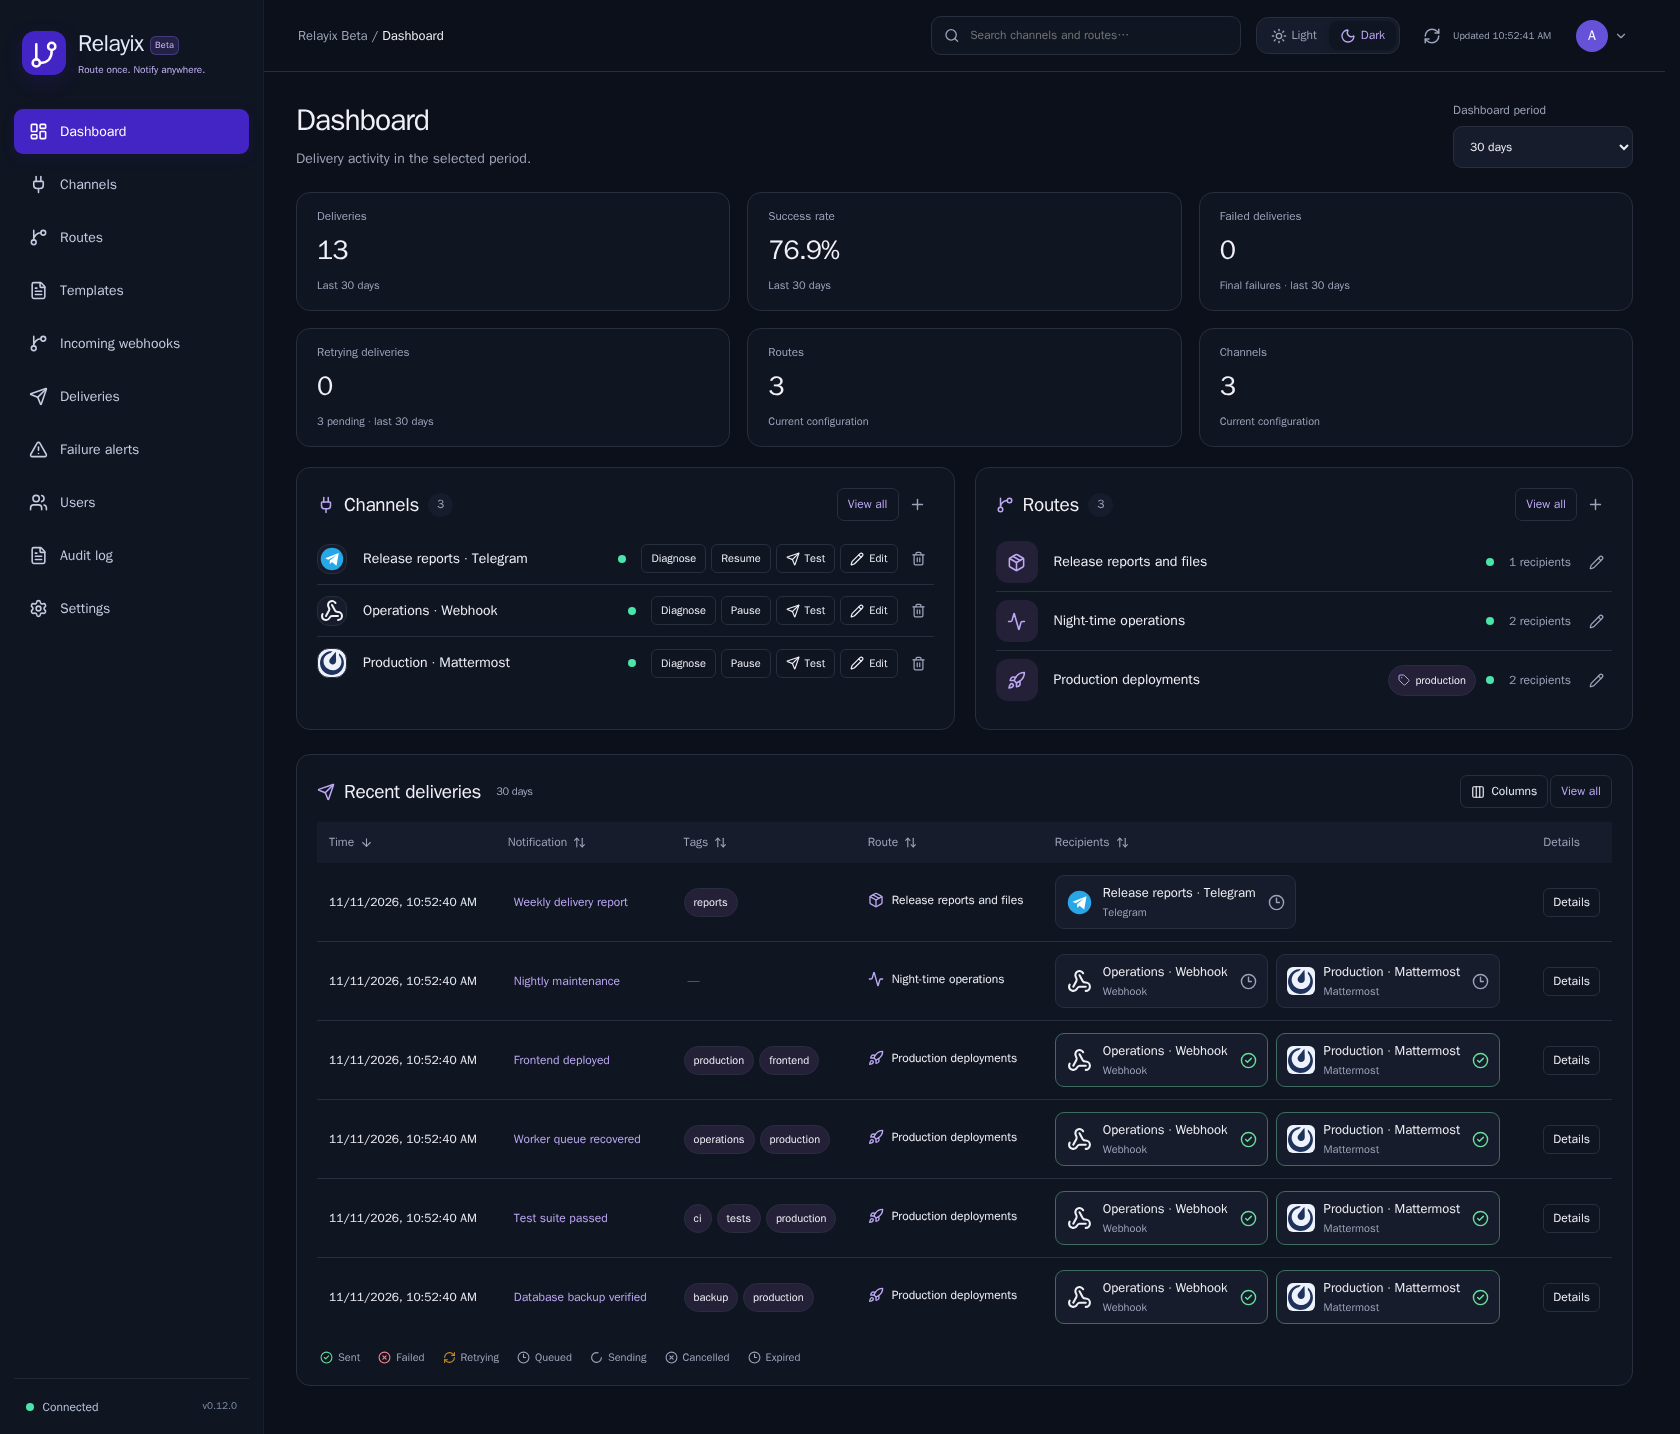
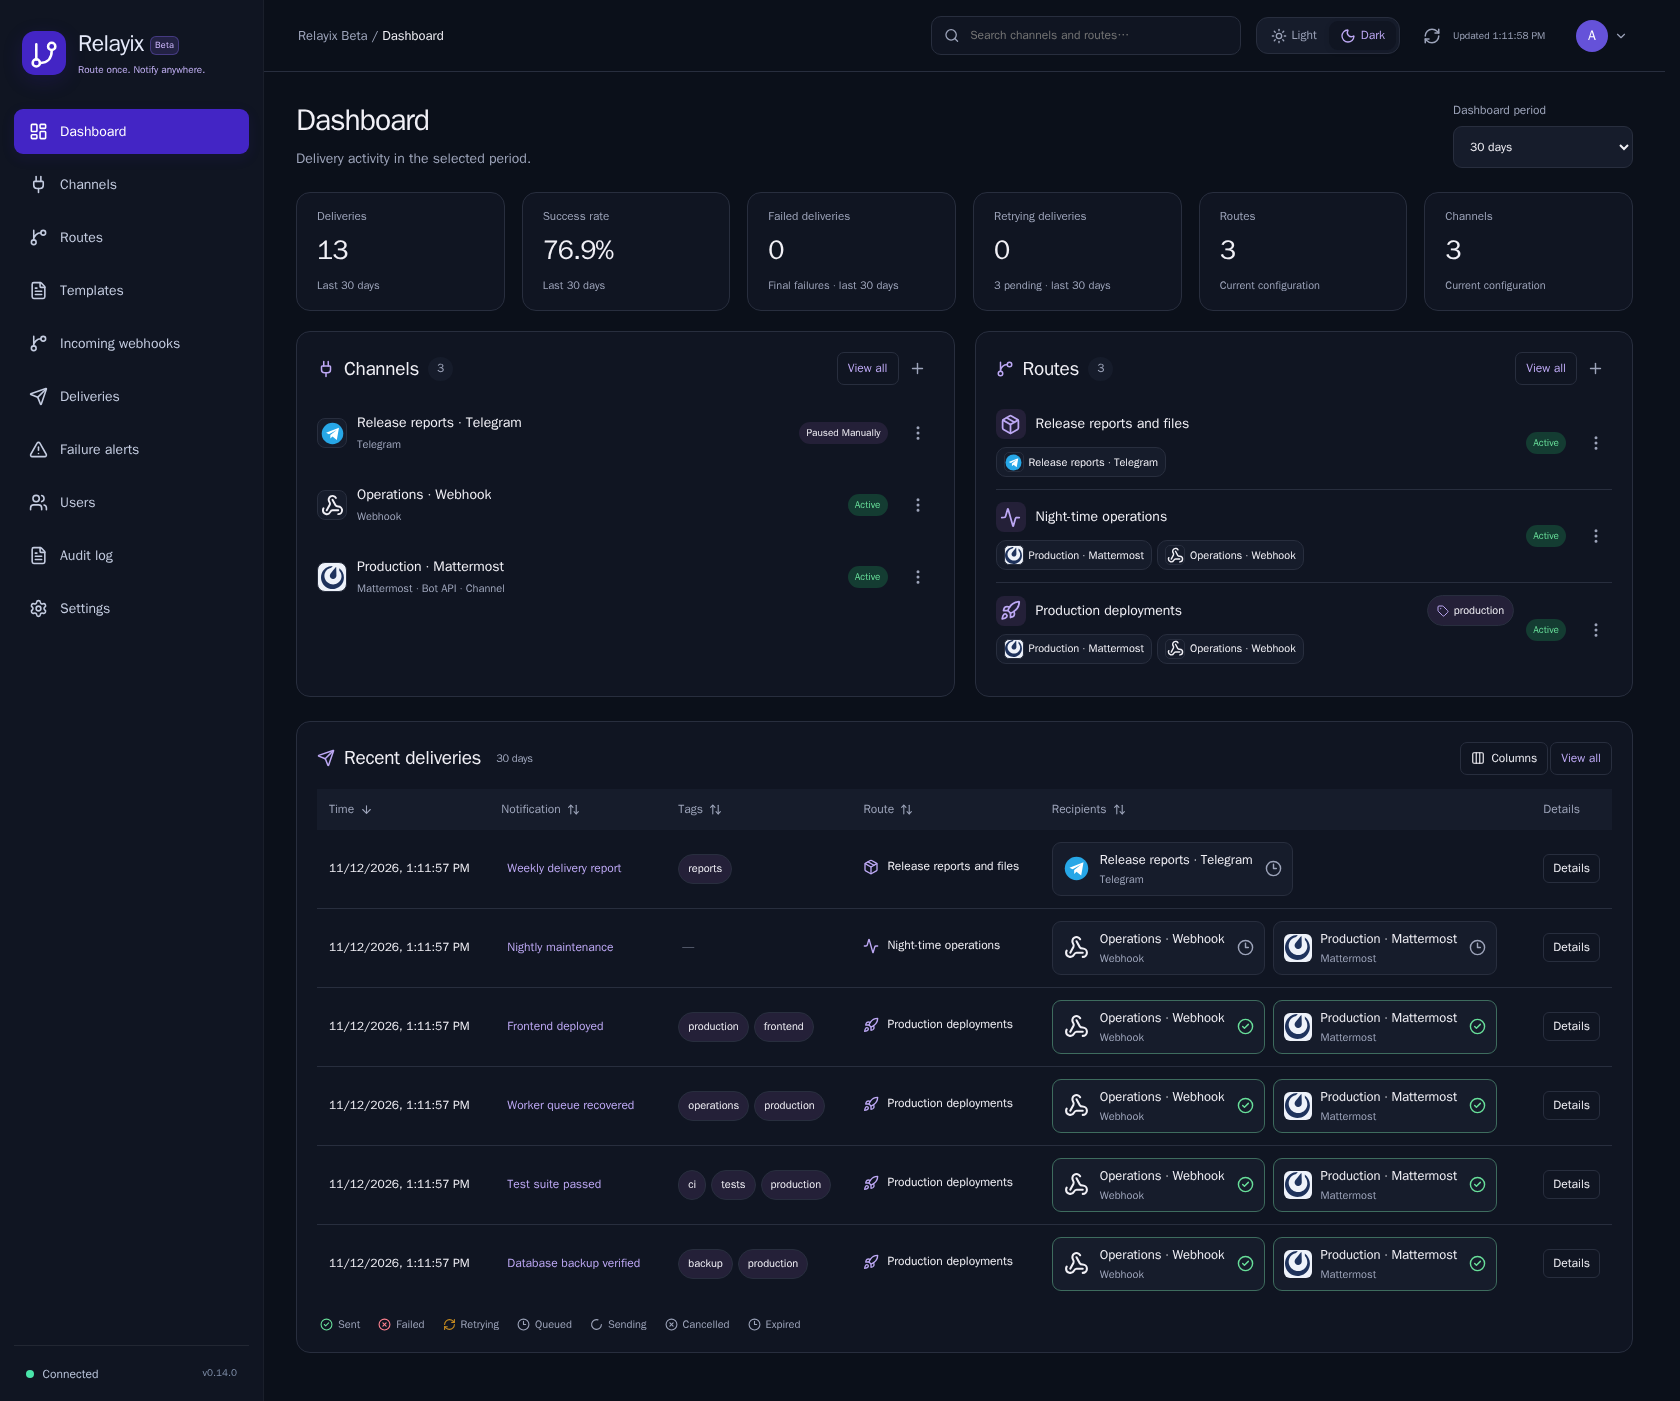
Refresh README with verified 0.14.0 interface screenshots

diff --git a/docs/screenshots/README.md b/docs/screenshots/README.md
@@ -1,9 +1,9 @@
 # Interface screenshots
 
-These PNGs were captured from the verified Relayix **0.12.0 Beta** candidate, commit [`6ba970ca7cc8aed5fd953e53c38356ab6582dfdd`](https://github.com/opsforge89/Relayix/commit/6ba970ca7cc8aed5fd953e53c38356ab6582dfdd), during [the complete candidate verification](https://github.com/opsforge89/Relayix/actions/runs/42980899227) on 2026-11-11.
+These eight PNGs were captured from the verified Relayix **0.14.0 Beta** candidate, commit [`563af308deb057fb6486d9439004b24c40e21491`](https://github.com/opsforge89/Relayix/commit/563af308deb057fb6486d9439004b24c40e21491), during [the complete candidate verification](https://github.com/opsforge89/Relayix/actions/runs/43196085278) on 2026-11-12.
 
-`tests/readme_capture.py` creates an isolated temporary deployment, seeds fictional destinations, routes, notifications and an account, then captures the actual Chromium interface. It runs only in GitHub Actions as part of the single pre-publication verification pipeline. The browser viewport is 1680 × 1100 CSS pixels; full-page screenshots can be taller. The dashboard uses the dark theme; other views use the light theme.
+`tests/readme_capture.py` creates an isolated temporary deployment, seeds fictional destinations, routes, notifications and an account, then captures the actual Chromium interface. It runs only in GitHub Actions as part of the single pre-publication verification pipeline. The browser viewport is 1680 × 1100 CSS pixels; full-page screenshots can be taller. The dashboard and resource overview drawers use the dark theme; other views use the light theme.
 
-The five images cover the dashboard, channels/integrations, template editor with rendered preview, route TTL/quiet hours and administrator audit. They were visually reviewed and copied byte-for-byte from the `verification-artifacts` archive. Credentials, route keys and authenticator secrets are not displayed. No image editing or synthetic UI rendering was used.
+The eight images cover the compact dashboard, channels/integrations, compact routes, channel and route overview drawers, the template editor with rendered preview, route Settings with TTL/quiet hours and administrator audit. They were visually reviewed and copied byte-for-byte from the `verification-artifacts` archive. Credentials, route keys and authenticator secrets are not displayed. No image editing or synthetic UI rendering was used.
 
 To refresh them, take the matching `readme-*.png` files from a successful candidate verification artifact, review the images, replace these `relayix-*.png` files and update the README captions and provenance in a documentation-only PR. Do not rebuild, pull published application images or run post-publication integration checks just to update screenshots.

diff --git a/README.md b/README.md
@@ -74,18 +74,29 @@ Keep your `.env` and database volume. Migrations run automatically. For upgrades
 
 ## Preview
 
-Current interface, captured from the verified 0.12.0 Beta runtime with fictional demonstration data.
+Current interface, captured from the verified 0.14.0 Beta runtime with fictional demonstration data.
 
-![Relayix dashboard with delivery metrics, channels, routes and delivery history — dark theme](docs/screenshots/relayix-dashboard-dark.png)
+![Relayix dashboard with compact Channels and Routes lists, delivery metrics and recent history — dark theme](docs/screenshots/relayix-dashboard-dark.png)
 
-![Relayix channels, manual pause controls and available integrations — light theme](docs/screenshots/relayix-channels-light.png)
+![Compact channel list with status indicators, action menus and available integrations — light theme](docs/screenshots/relayix-channels-light.png)
+
+![Compact routes with recipients, status indicators and action menus — light theme](docs/screenshots/relayix-routes-light.png)
+
+<details>
+<summary>Channel and route details</summary>
+
+![Channel overview drawer with status, permissions and Settings and Access tabs — dark theme](docs/screenshots/relayix-channel-details-dark.png)
+
+![Route overview drawer with recipients, delivery policy and Settings and Integration tabs — dark theme](docs/screenshots/relayix-route-details-dark.png)
+
+</details>
+
+<details>
+<summary>Templates, delivery timing and administrator audit</summary>
 
 ![Relayix template editor with categorized fields and a rendered notification preview — light theme](docs/screenshots/relayix-template-editor-light.png)
 
-<details>
-<summary>Delivery timing and administrator audit</summary>
-
-![Route message TTL and quiet-hours controls — light theme](docs/screenshots/relayix-route-controls-light.png)
+![Route Settings drawer with message TTL and quiet-hours controls — light theme](docs/screenshots/relayix-route-controls-light.png)
 
 ![Administrator audit log with account, route and channel actions — light theme](docs/screenshots/relayix-audit-light.png)
 
